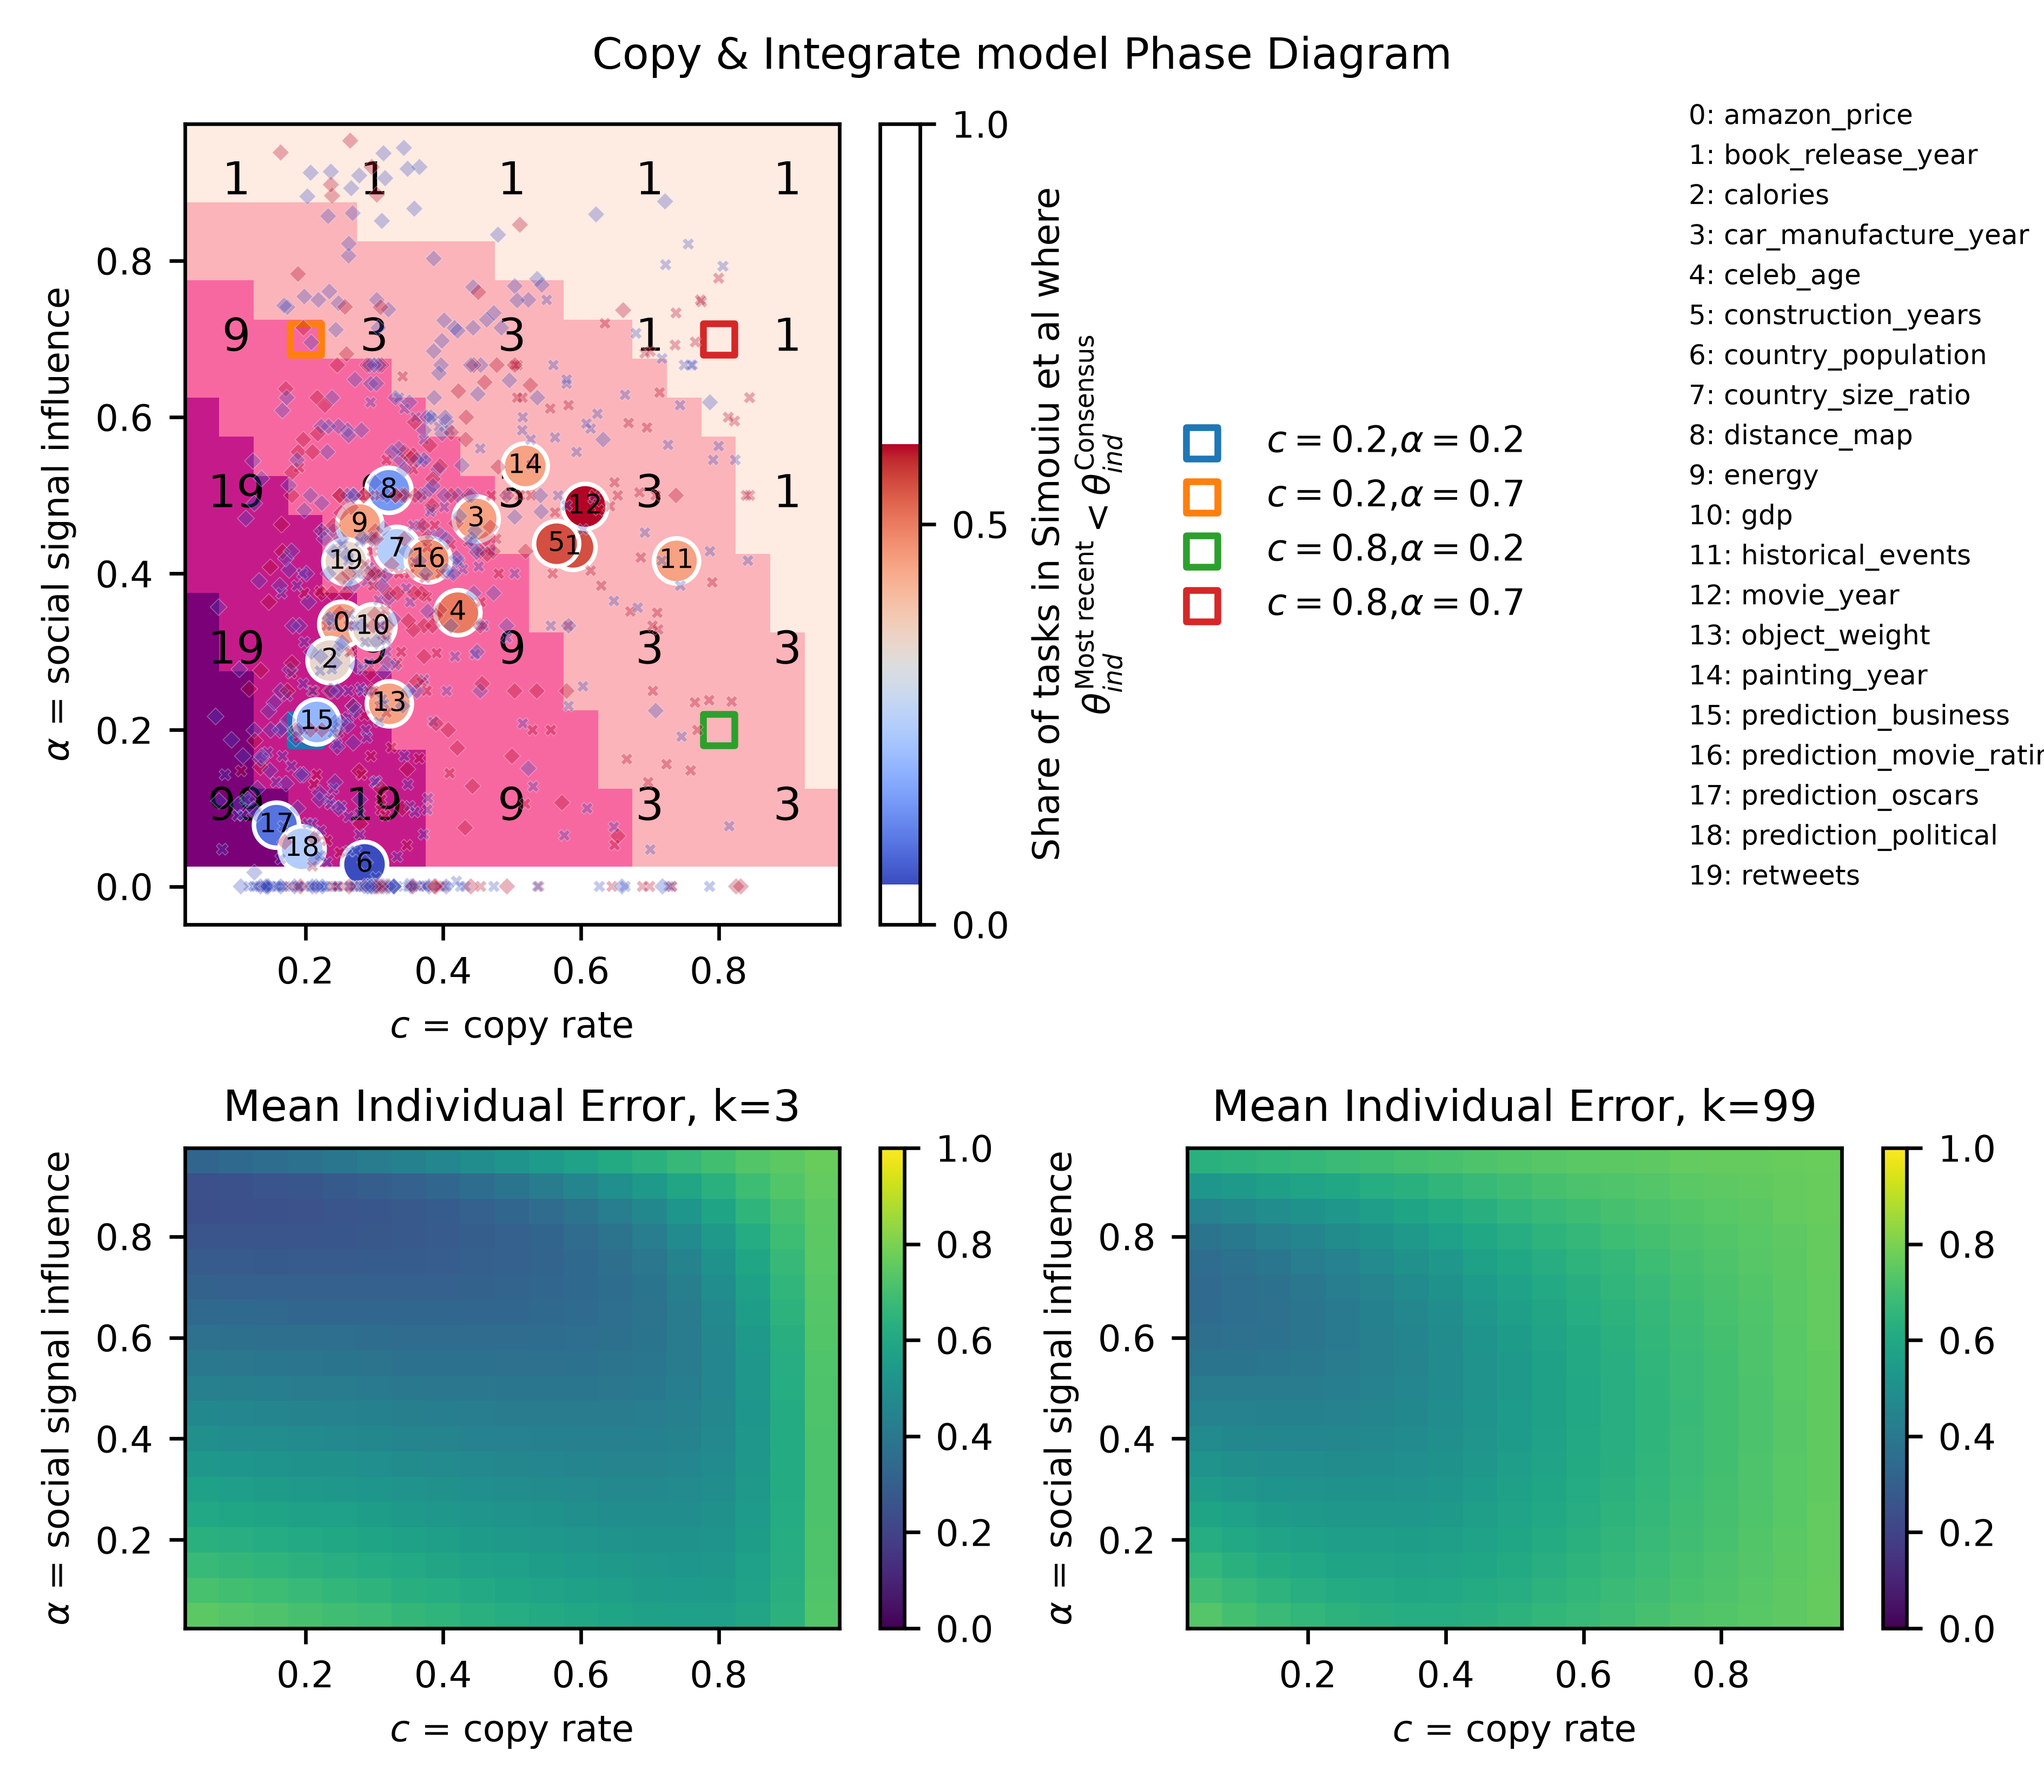
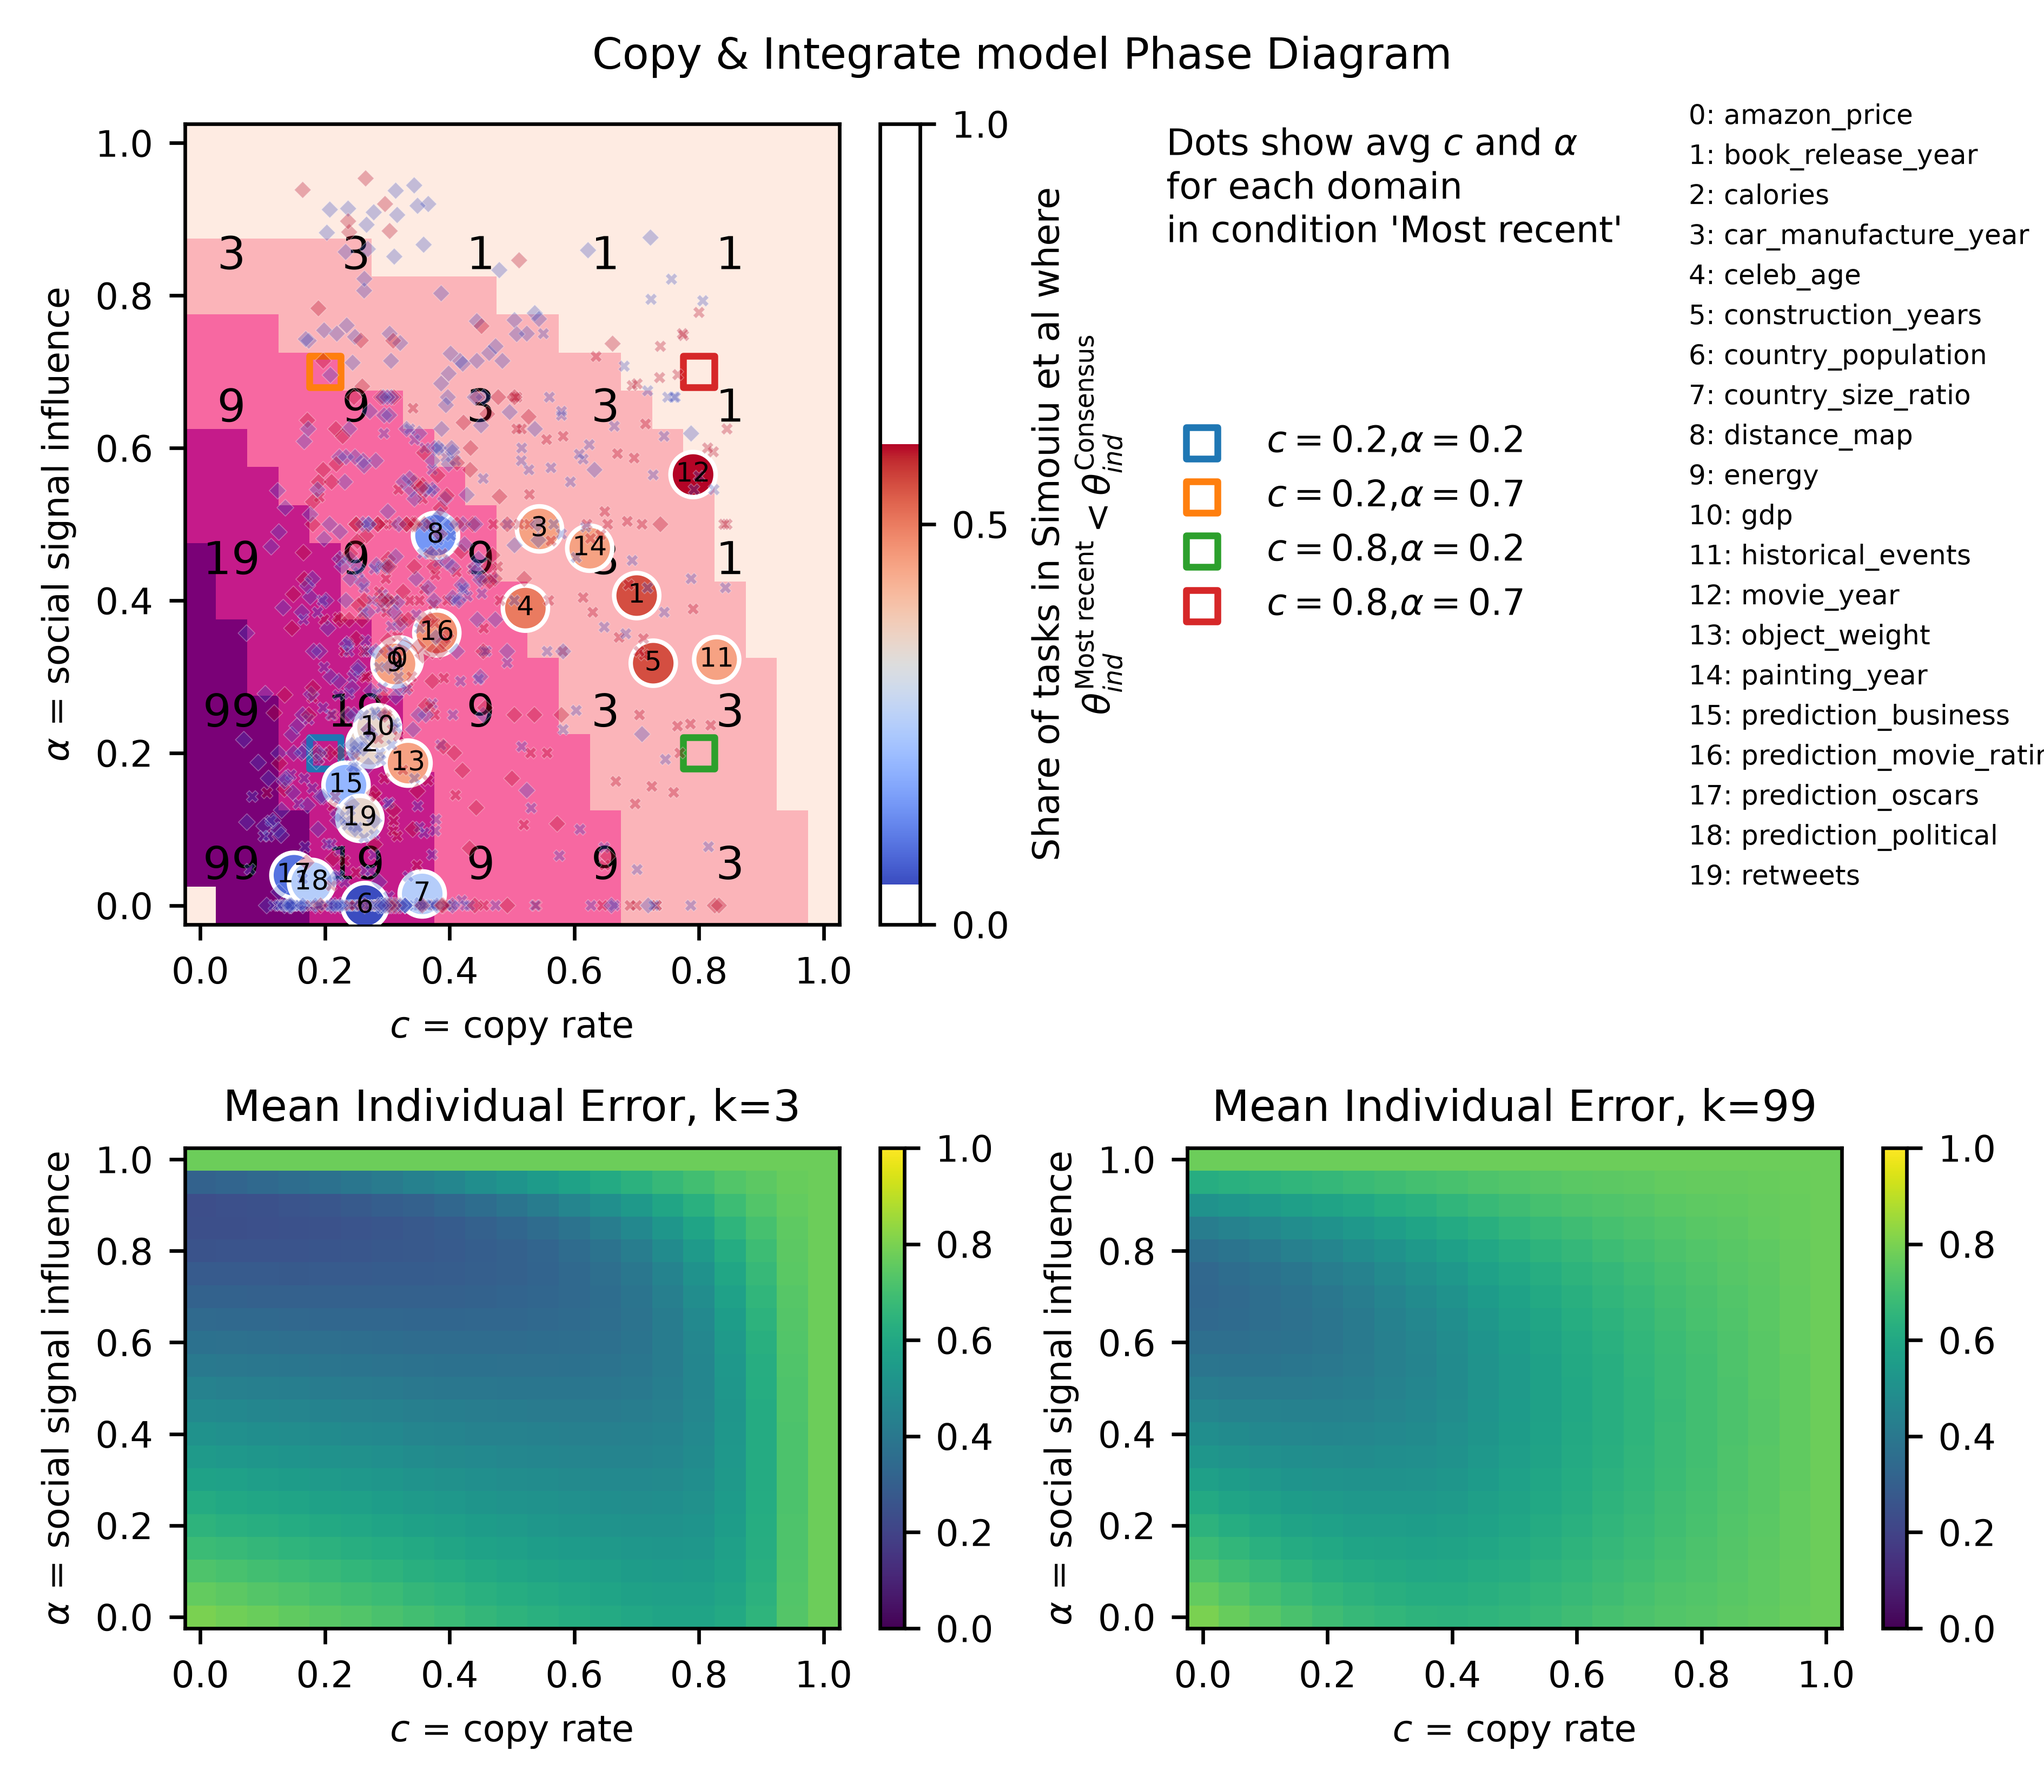
updated plot

diff --git a/Sim_202609_plotTrajectory.py b/Sim_202609_plotTrajectory.py
@@ -148,7 +148,7 @@ plot_ThetaOverK(errorsCIexamples.loc[errorsCIexamples.k.isin(ksPlot)], 100, "ci"
 
 
 #%%
-def plot_phasespace(df, ax, ks, cbar=False, vmax=None, annot=False):
+def plot_phasespace(df, ax, ks, cbar=False, vmax=None, annot=False, plotProb=False):
     cmap = mcolors.ListedColormap(["darkred", "tomato", "magenta", "cornflowerblue", "darkblue"])
     cmap = mcolors.ListedColormap(["#feebe2","#fbb4b9","#f768a1","#c51b8a","#7a0177"])
     norm = mcolors.BoundaryNorm([k-1 for k in ks]+[ks[-1]+1], cmap.N)
@@ -157,10 +157,17 @@ def plot_phasespace(df, ax, ks, cbar=False, vmax=None, annot=False):
     x, y = df.columns.values, df.index.values   # 0..1, equally spaced
     data = np.ma.masked_invalid(df.values)
 
-    if cbar:
+    if plotProb: 
+        mesh = ax.pcolormesh(x, y, data, shading="nearest", cmap="Purples", vmin=0, vmax=vmax)
+        cb = ax.figure.colorbar(mesh, ax=ax)
+        cb.set_label(rf"Simulated prob. that $\theta(k={ks[0]}) \leq \theta(k={ks[1]})$", )
+        cb.set_ticks([0, 0.5, 1])
+
+    elif cbar:
         mesh = ax.pcolormesh(x, y, data, shading="nearest", cmap="viridis", vmin=0, vmax=vmax)
         # mesh = ax.contour(x, y, data, cmap="viridis", vmin=0, vmax=vmax)
-        ax.figure.colorbar(mesh, ax=ax)
+        cb = ax.figure.colorbar(mesh, ax=ax)
+        # cb.set_label("")
     else:
         mesh = ax.pcolormesh(x, y, data, shading="nearest", cmap=cmap, norm=norm)
         # mesh = ax.contour(x, y, data, cmap=cmap, norm=norm, levels=[ks[0]-1]+[k+1 for k in ks])
@@ -177,20 +184,27 @@ def plot_phasespace(df, ax, ks, cbar=False, vmax=None, annot=False):
 
 def plotPhaseMosaic(df, ks, model, err, scatter=True, scatter_df= None):
     params = ["logGmean", "logEmean"] if model == "mh" else ["c", "alpha"]
+    
+    if len(ks)==2:
+        probname = fr"$k{ks[0]}\leqk{ks[1]}$"
+        prob = df.pivot_table(index=["c", "alpha", "seed"], columns="k", values=err, aggfunc="first")
+        prob = (prob[ks[0]]<=prob[ks[1]]).rename(probname).reset_index().groupby(["c", "alpha"])[probname].mean().reset_index()
+
     minK_ind = (df.pivot_table(index=params, columns="k", values=err)
                 .T.idxmin().rename("bestK").reset_index())
     minK_ind["bestK"] = pd.Categorical(minK_ind["bestK"], categories=ks)
     for k in ks:
         minK_ind = minK_ind.merge(
             df.loc[df.k == k].groupby(params)[err].mean()
-            .rename(f"k{k}_mean_" + err).reset_index())
+            .rename(f"k{k}_mean_" + err).reset_index())    
+                
 
-    fig, axs = plt.subplot_mosaic([["a", "a", "leg","leg2"], ["b", "b", "c", "c"]],
-                                  figsize=(16 / 2.54, 14 / 2.54), height_ratios=[1,0.6])
+    fig, axs = plt.subplot_mosaic([["a", "a", "a", "leg","leg2"], ["b", "b", "c", "c", "c"]],
+                                  figsize=(18 / 2.54, 14 / 2.54), height_ratios=[1,0.6], width_ratios=[2.5,2,1,1,2])
     axs["leg2"].axis("off")
-    plot_phasespace(minK_ind.pivot_table(index=params[1], columns=params[0],
-                                         values="bestK", aggfunc="first"),
-                    axs["a"], ks=ks, annot=True)
+    plot_phasespace((minK_ind if len(ks)>2 else prob).pivot_table(index=params[1], columns=params[0],
+                                         values=("bestK" if len(ks)>2 else probname), aggfunc="first"),
+                    axs["a"], ks=ks, annot=(len(ks)>2), plotProb=len(ks)==2)
     for l, k in zip(["b", "c"], [3, 99]):
         axs[l].set_title(f"Mean Individual Error, k={k}")
         plot_phasespace(minK_ind.pivot_table(index=params[1], columns=params[0],
@@ -221,17 +235,20 @@ def plotPhaseMosaic(df, ks, model, err, scatter=True, scatter_df= None):
         # a.invert_yaxis()                               # ci: origin top, as with sns.heatmap
 
     fig.suptitle((fr"Mayer&Heck ($R={df.R.unique()[0]}$)" if model=="mh" else "Copy & Integrate") + " model Phase Diagram")
-    fig.tight_layout()
+    fig.tight_layout(w_pad=0)
     return fig, axs
 
 #%%
 ks = errorsCI.k.unique().tolist()
-ks = [1,3,9,19,99]
+ks = [3,99] #[1,3,9,19,99]
 N_evaluate = 100
 fig, axs = plotPhaseMosaic(errorsCI.loc[(errorsCI.N==N_evaluate) & (errorsCI.k.isin(ks))], ks, "ci", "relative_error_ind", scatter=True, scatter_df=errorsCIexamples)
 
 for ax in axs:
-    axs[ax].set_ylabel(r"$\alpha$ = social signal influence")
+    if not ax=="c": 
+        axs[ax].set_ylabel(r"$\alpha$ = social signal influence")
+    else:
+        axs[ax].set_ylabel("")
     axs[ax].set_xlabel(r"$c$ = copy rate")
 
 simoiuFit = pd.read_csv("processed_data/simoiu_fitsCI.csv")
@@ -240,10 +257,11 @@ print(simoiuFit.loc[simoiuFit.cond.isin(["Most recent", "Consensus"])].groupby([
 fits = simoiuFit.loc[simoiuFit.cond.isin(["Most recent", "Consensus"])].groupby(["domain_name", "task_id", "cond"], as_index=False).first()
 fits["'Most recent' outperforms 'Consensus'"] = (fits["bestCondition"] == "Most recent").astype(int)
 share = (
-    fits.groupby("domain_name")["'Most recent' outperforms 'Consensus'"].mean()
+    fits.groupby(["domain_name"])["'Most recent' outperforms 'Consensus'"].mean()
     .rename("fraction tasks in which 'Most recent' outperforms 'Consensus'")      
 )
-params = simoiuFit.groupby("domain_name")[["c", "alpha"]].mean()
+condition = "Most recent"
+params = simoiuFit.loc[simoiuFit.cond==condition].groupby("domain_name")[["c", "alpha"]].mean()
 params["share"] = share
 
 norm = mcolors.Normalize(vmin=0, vmax=1)
@@ -256,10 +274,11 @@ for nl, (name, row) in enumerate(params.iterrows()):
 for cond, marker in zip(["Most recent", "Consensus"], ["X", "D"]):
     fitsCond = fits.loc[fits.cond==cond]
     scTasks = axs["a"].scatter(fitsCond["c"], fitsCond["alpha"], c=fitsCond["'Most recent' outperforms 'Consensus'"], s=7, linewidth=0.2, edgecolors="white", zorder=11,cmap=cmapDots, norm=None, marker=marker, alpha=0.3)
+axs["a"].text(0.99 if len(ks)==2 else 1.5,0.99,rf"Dots show avg $c$ and $\alpha$"+f"\nfor each domain"+f"\nin condition '{condition}'", va="top", ha="left" if len(ks)>2 else 'right', transform=axs["a"].transAxes, color="k" if len(ks)>2 else "white")
 cb = plt.colorbar(sc)   # or fig.colorbar(...)
-cb.set_label(r"Share of tasks in Simouiu et al where"+"\n"+r"$\theta_{ind}^{\rm Most\ recent} < \theta_{ind}^{\rm Consensus}$")
+cb.set_label(r"Share of tasks with"+r"$\theta_{ind}^{\rm Most\ recent} < \theta_{ind}^{\rm Consensus}$", )
 cb.set_ticks([0, 0.5, 1])
-plt.savefig("figs/phase_CI"+("3v100" if len(ksPlot)==2 else '')+".png", dpi=600)
+plt.savefig("figs/phase_CI"+("3v100" if len(ksPlot)==2 else '')+f"_SimoiuDomains{condition}.png", dpi=600)
 
 # %%
 ks = errorsMH.k.unique().tolist()
@@ -274,4 +293,31 @@ for ax in axs:
 # plt.savefig("figs/phase_MH"+("3v100" if len(ks)==2 else '')+".png", dpi=600)
 
 
+# %%
+
+
+tab = errorsCI.loc[(errorsCI.N==N_evaluate) & (errorsCI.k.isin([3,99]))].pivot_table(index=["c", "alpha", "seed"], columns="k", values="relative_error_ind", aggfunc="first")
+tab = (tab[3]<tab[99]).rename("k3<k99").reset_index().groupby(["c", "alpha"])["k3<k99"].mean().reset_index()
+
+ax = plt.axes()
+sns.heatmap(tab.pivot_table(columns="c", index="alpha", values="k3<k99", aggfunc="first"), ax=ax, cmap="Purples", cbar_kws={"label":"Probability that $\theta(k=3)<\theta(k=99)$ over 1000 seeds"})
+ax.invert_yaxis()
+
+
+# %%
+
+# CORRELATION
+err = "relative_error_ind"
+probname = "3<=99"
+df = errorsCI.copy()
+prob = df.pivot_table(index=["c", "alpha", "seed"], columns="k", values=err, aggfunc="first")
+prob = (prob[ks[0]]<=prob[ks[1]]).rename(probname).reset_index().groupby(["c", "alpha"])[probname].mean().reset_index()
+# %%
+res = []
+for d in params.index:
+    closest = {col: prob[col].iloc[(prob[col] - params.loc[d, col]).abs().argmin()]
+           for col in ["c", "alpha"]}
+    res.append([d, params.loc[d,"c"], params.loc[d,"alpha"], params.loc[d,"share"], closest["c"], closest["alpha"], prob.loc[(prob.c==closest["c"]) & (prob.alpha==closest["alpha"]), probname].values[0]])
+res_df = pd.DataFrame(res, columns=["domain", "c fit "+condition, "alpha fit "+condition, "k=3 win share", "c", "alpha", "sim k=3 win prob" ])
+res_df[["k=3 win share", "sim k=3 win prob"]].corr()
 # %%

diff --git a/Data_202609_fitSimoiu.py b/Data_202609_fitSimoiu.py
@@ -348,3 +348,15 @@ print(df3.loc[df3.cond.isin(["Most recent", "Consensus"])].groupby(["domain_name
 # %%
 df3.to_csv("processed_data/simoiu_fitsCI.csv")
 # %%
+
+
+fitsKontalexi= (
+    pd.read_table('kontalexiFits.md', sep="|", header=0, index_col=1, skipinitialspace=True)
+    .dropna(axis=1, how='all')
+    .iloc[1:]
+    )
+fitsKontalexi.index = fitsKontalexi.index.str.strip()
+myfit= df3.loc[df3.cond=="Consensus"].groupby("domain_name")[["c"]].mean().round(2)
+fitsKontalexi = pd.DataFrame(fitsKontalexi).join(myfit) #, how="left")
+fitsKontalexi.corr()
+# %%

diff --git a/Sim_202609_models_main.py b/Sim_202609_models_main.py
@@ -123,8 +123,8 @@ if run=="_examples":
     paramsCI = [(c,a) for c in cs for a in alphas]
 else:
     memory_sizes = [1,3,9,19,99]
-    cs = np.linspace(0,1,21)[1:-1]
-    alphas = np.linspace(0,1,21)[1:-1]
+    cs = np.linspace(0,1,21)#[1:-1]
+    alphas = np.linspace(0,1,21)#[1:-1]
     paramsCI = [(c,a) for c in cs for a in alphas]
 
 beliefs = rng.normal(T, sig, size=(n_seeds, n))   # generated once, shared by all configs

diff --git a/kontalexiFits.md b/kontalexiFits.md
@@ -1,0 +1,23 @@
+| domain_name             | c (Consensus from Kontalexi) |
+| :---------------------- | ---------------------------: |
+| amazon_price            |                         0.18 |
+| book_release_year       |                         0.47 |
+| calories                |                         0.19 |
+| car_manufacture_year    |                         0.35 |
+| celeb_age               |                         0.33 |
+| construction_years      |                          0.4 |
+| country_population      |                          0.3 |
+| country_size_ratio      |                         0.31 |
+| distance_map            |                         0.26 |
+| energy                  |                         0.24 |
+| gdp                     |                         0.31 |
+| historical_events       |                         0.64 |
+| movie_year              |                         0.43 |
+| object_weight           |                         0.31 |
+| painting_year           |                         0.42 |
+| prediction_business     |                          0.2 |
+| prediction_movie_rating |                         0.38 |
+| prediction_oscars       |                         0.17 |
+| prediction_political    |                         0.21 |
+| retweets                |                         0.25 |
+
